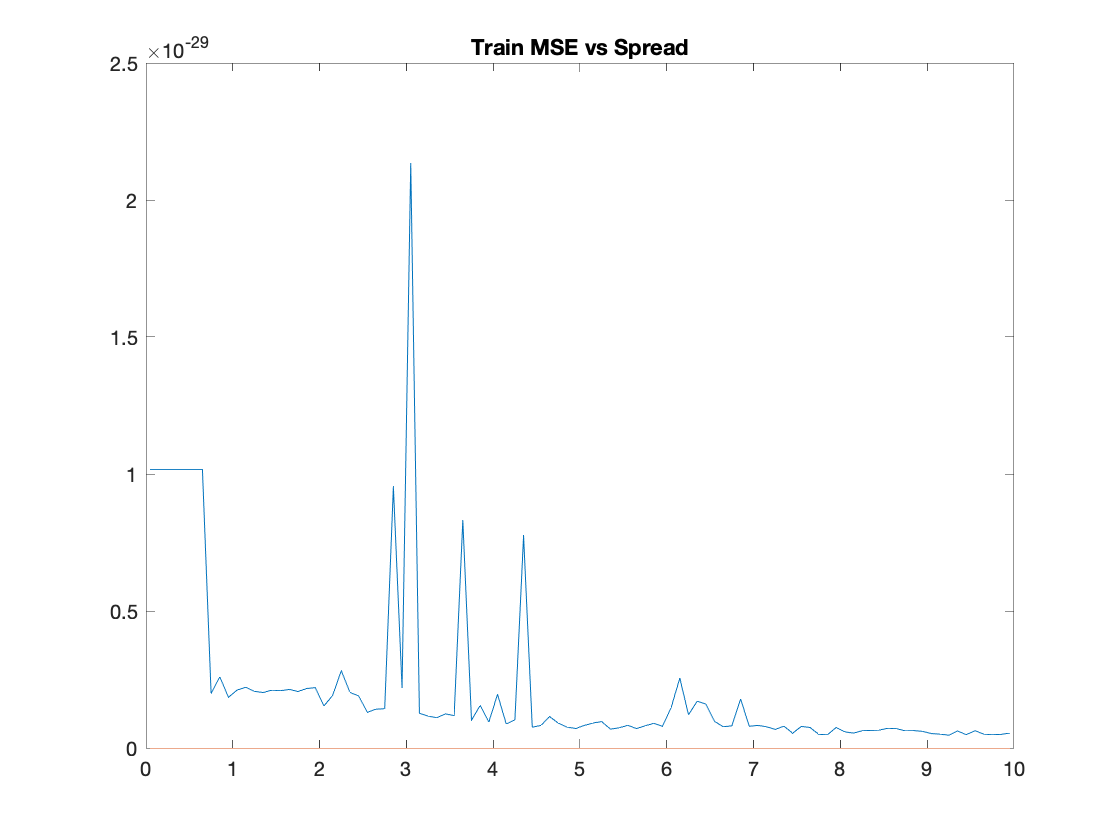
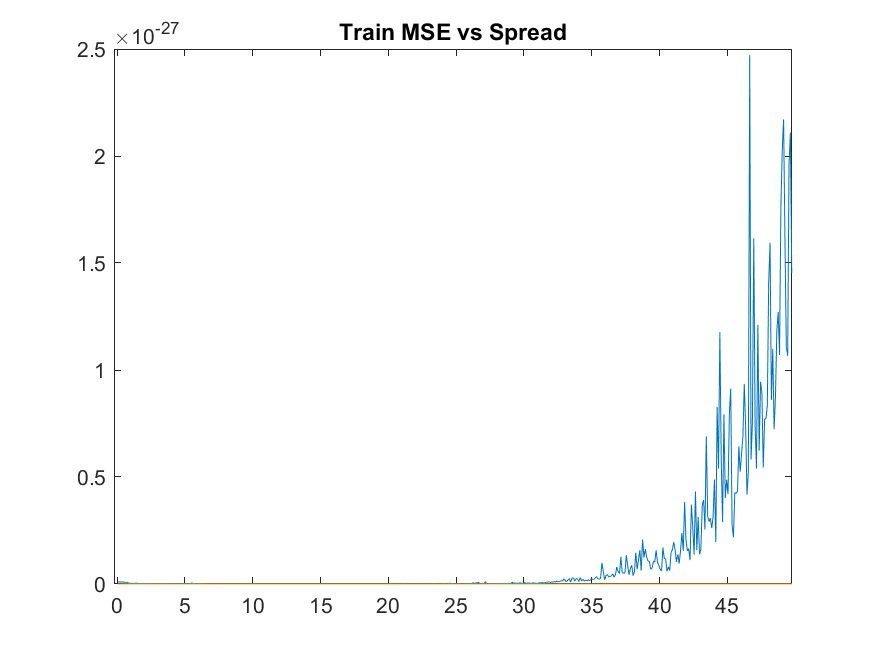
Expand on Task 2

diff --git a/RBF_MLP_Project/task2.m b/RBF_MLP_Project/task2.m
@@ -13,17 +13,11 @@ T = (labels.T + 1) / 2;
 % Normalize data
 % samples_nrm = normc(samples);
 
-%% Set up networks
-% net1 = newrbe(trainP,trainT,3.0);
-% 
-% y1v = sim(net1,valP);
-% mse1v=mse(y1v-valT);
-% 
-% [net, spread] = best_spread_rbe(trainP, trainT, valP, valT, [0.05, 0.1, 0.25, 0.33, 0.5, 1.0, 2.0, 3.0, 4.0, 5.0, 6.0, 7.0, 8.0, 9.0, 10.0]);
+%% Train a bunch of RBFs
 
-spreads = 0.05 : 0.1 : 10;
+spreads = 0.05 : 0.1 : 50;
 
-[net, trainMse, valMse] = eval_spreads(trainP, trainT, valP, valT, spreads);
+[net, best_spread, trainMse, valMse] = eval_spreads(trainP, trainT, valP, valT, spreads);
 
 figure(1)
 plot(spreads, trainMse);
@@ -34,22 +28,23 @@ plot(spreads, valMse);
 title('Validation MSE vs Spread');
 
 
-% preds = sim(net, testP);
+preds = sim(net, testP);
 
-% figure(1)
-% plotroc(testT, testP);
-% 
-% % Use threshold to determine class
-% preds(preds >= 0.5) = 1;
-% preds(preds < 0.5) = 0;
-% 
-% % Calculate and plot ROC AUC
-% [X, Y, T, AUC] = perfcurve(valT, preds, 1);
-% 
-% disp(AUC);
-% 
-% figure(2);
-% confusionchart(valT, preds);
+figure(3)
+plotroc(testT, testP);
+
+% Use threshold to determine class
+preds(preds >= 0.5) = 1;
+preds(preds < 0.5) = 0;
+
+% Calculate and plot ROC AUC
+[X, Y, T, AUC] = perfcurve(valT, preds, 1);
+
+disp(AUC);
+disp(best_spread);
+
+figure(4);
+confusionchart(valT, preds);
 
 
 
